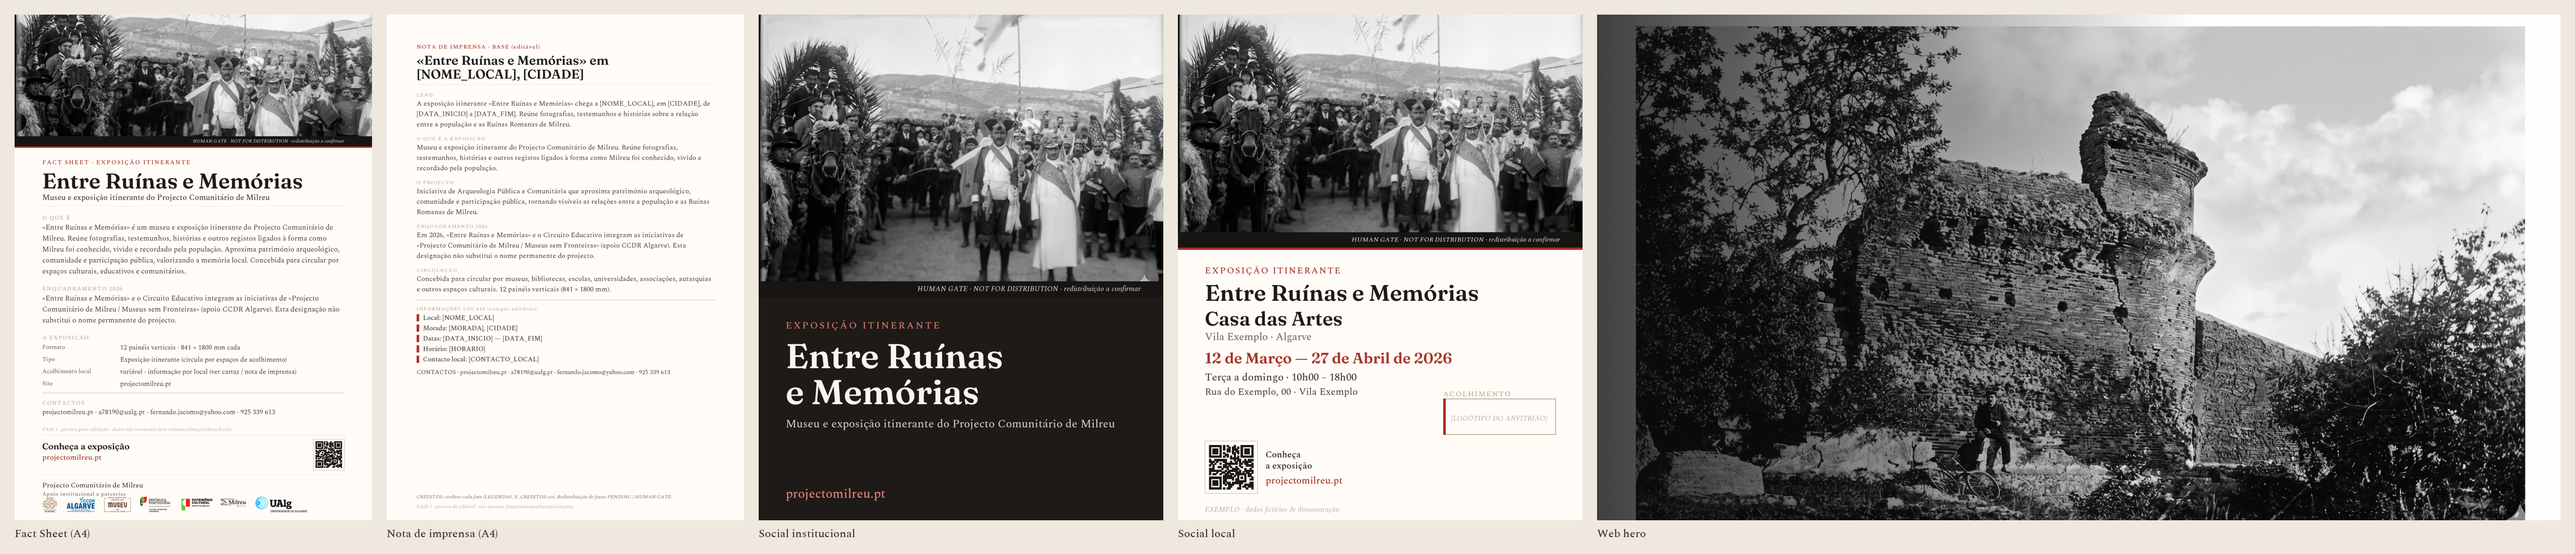
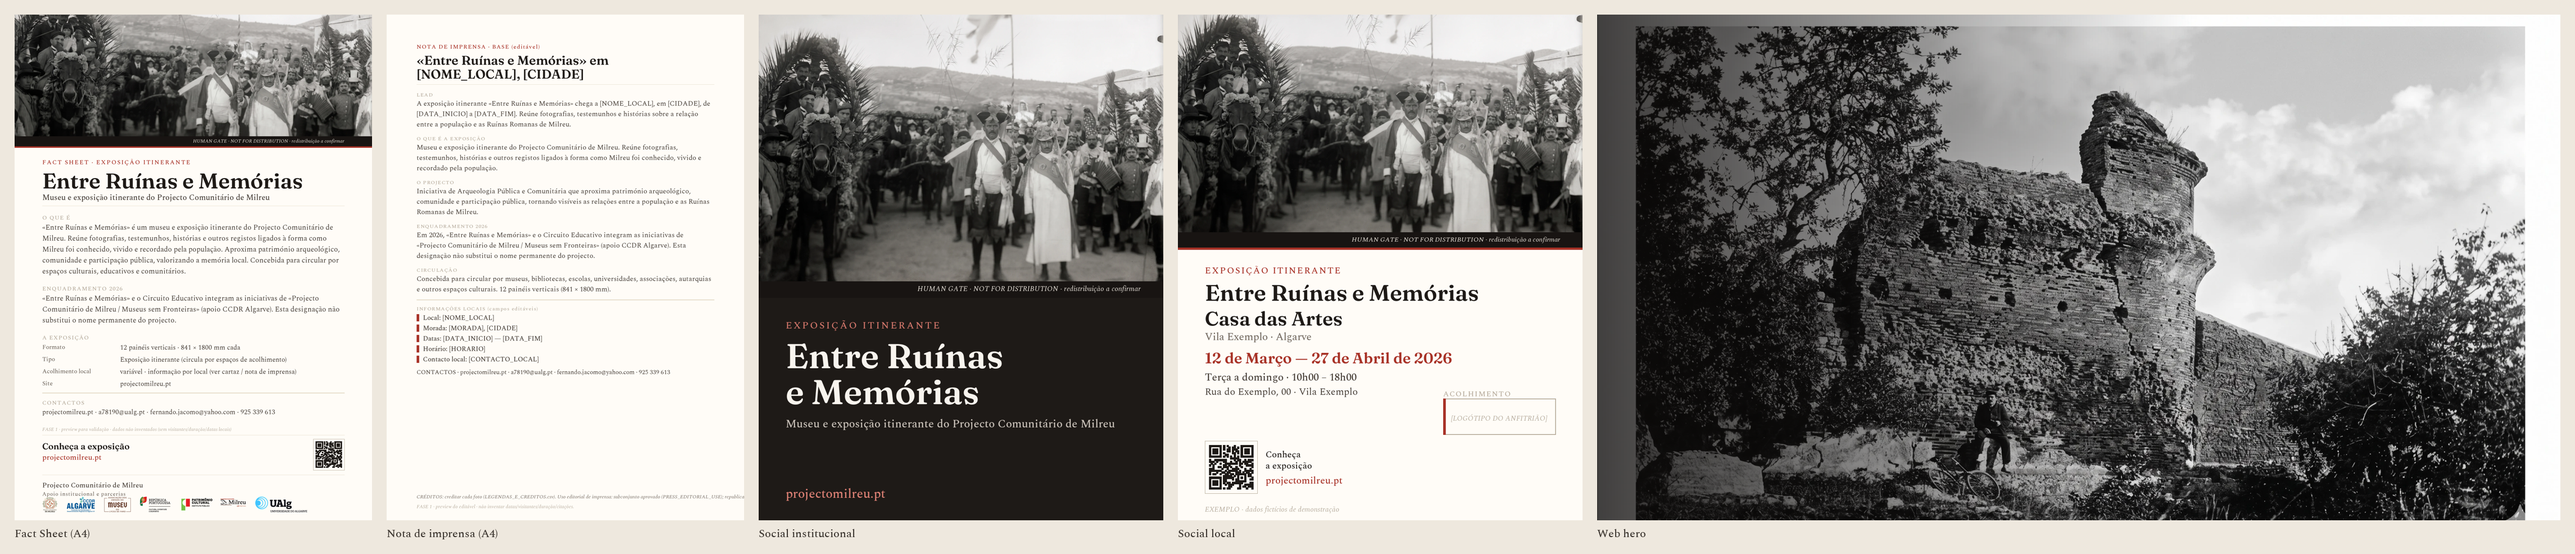
feat(item9): PRESS_EDITORIAL_USE package + previews regenerados (fecho operacional)
Estado: PRESS EDITORIAL PACKAGE READY / GENERIC & HOST REDISTRIBUTION GATED.

- Pacote `04_IMAGENS/PRESS_EDITORIAL_USE/` (renomeado de distribuiveis-imprensa): 5 assets
  press_editorial_use=YES (MM202601/602/603/608/613) + CREDITOS_IMPRENSA.csv + README com
  texto obrigatório (uso exclusivo editorial relacionado com o Projeto; não autoriza
  redistribuição genérica/republicação por terceiros) + condições por asset (restrição
  MM202602; termos Torre do Tombo MM202601).
- Previews regenerados (_previews/): corrigida a linha de créditos superseded na nota de
  imprensa ("Redistribuição: PENDING" → "subconjunto aprovado (PRESS_EDITORIAL_USE)").
  Fact sheet/social sem taxonomia superseded (barra de logos canónica + enquadramento MSF).
- Referências distribuiveis-imprensa → PRESS_EDITORIAL_USE (README/QuickStart/nota/manifest/
  inventory/QA/ESTADO_ITENS). manifest.phase atualizado.

Mantido: social/web, direitos dos assets, host_partner/generic, design do kit. ZIP público
genérico NÃO desbloqueado. Itens 10/11 não iniciados.

Changed region(s): [[0.2809, 0.0304, 0.6242, 0.5172], [0.0, 0.0, 0.156, 0.2434], [0.2185, 0.8824, 0.2809, 0.9128]]

diff --git a/docs/dissemination/kit-digital-press/v1/source/generators/kit_previews_build.py b/docs/dissemination/kit-digital-press/v1/source/generators/kit_previews_build.py
@@ -156,7 +156,7 @@ def press_preview():
     for t in ["Local: [NOME_LOCAL]","Morada: [MORADA], [CIDADE]","Datas: [DATA_INICIO] — [DATA_FIM]","Horário: [HORARIO]","Contacto local: [CONTACTO_LOCAL]"]:
         f.rect(mx,y+5,8,24,RED); f.text(mx+22,y,t,"sm",23,INK7,"l",wt=500); y+=36
     y+=10; f.text(mx,y,"CONTACTOS · projectomilreu.pt · a78190@ualg.pt · fernando.jacomo@yahoo.com · 925 339 613","s",21,INK7,"l")
-    f.text(mx,H-96,"CRÉDITOS: creditar cada foto (LEGENDAS_E_CREDITOS.csv). Redistribuição de fotos: PENDING / HUMAN GATE.","si",18,INK5,"l")
+    f.text(mx,H-96,"CRÉDITOS: creditar cada foto (LEGENDAS_E_CREDITOS.csv). Uso editorial de imprensa: subconjunto aprovado (PRESS_EDITORIAL_USE); republicação por terceiros/anfitrião por asset.","si",18,INK5,"l")
     f.text(mx,H-60,"FASE 1 · preview do editável · não inventar datas/visitantes/duração/citações.","si",17,INK3,"l")
     f.save("09_nota_imprensa_preview")
 

diff --git a/docs/project/ESTADO_ITENS_1-5_2026-10-01.md b/docs/project/ESTADO_ITENS_1-5_2026-10-01.md
@@ -19,7 +19,7 @@
 | 6 | Convite ao Inquérito | Peça de conversão (A6/A4/A3/digitais) | **FINAL ART** (PR #77/#82) — identificador 2026 no **bloco institucional top-anchored** (QR independente, quiet zone limpa); 5 formatos + CMYK; digitais 1080×1350 (bloco completo) e 1080×1920 (safe-area). **Gates:** CMYK gráfica + **teste físico do QR** |
 | 7 | Dossiê «convite ao convite» | Booklet A5 4 páginas (distribuição PDF) | **FINAL ART — UPDATED FOR AAMLF DISPLAY SYSTEM** (2026-10-06) — **P3** reescrita (sistema de expositores AAMLF: 7 estruturas metálicas/14 faces, diagramas 2+2+3 e ziguezague, montagem autónoma em desenvolvimento/esquema conceptual) + **P4** com bloco **PARCERIA E ACOMPANHAMENTO** (AAMLF/Meira Pinto/morada) + linha MSF; P1/P2 intactas; PDFs 300 DPI. **NIF fora do repo**; fotos só referência (→ Item 11). **Aguarda prepress** (CMYK/fontes) |
 | 8 | Cartaz local | Master/template editável A3+A4 por local | **TEMPLATE READY / STAND BY** (PR #80/**#97**) — master versionado com **slot 2026** + **template SVG A3/A4** (campos locais em vetor-texto vivo). **Não** se geram cartazes de evento sem local/data; prepress quando houver evento |
-| 9 | Kit Digital + Press Kit | Pacote para anfitriões/imprensa/parceiros | **FASE 1 · matriz reconciliada (2026-10-06)** — `press_editorial_use=YES`: **MM202601** (Festa da Pinha/Torre do Tombo, c/ termos da fonte), MM202603, MM202608, MM202613; **YES c/ restrição**: MM202602 (meninas); **NO**: MM202604/MM202627/MM202631. `host_partner`=PENDENTE e `generic`=NO (todas). **Subconjunto press editorial pronto** (`04_IMAGENS/distribuiveis-imprensa/`, 5 JPEG+créditos). Kit atualizado (README/QuickStart/nota-imprensa/contactos AAMLF/manifest); **taxonomia de entidades** sem duplicar AAMLF; **NIF fora do kit**. **ZIP público genérico + republicação por anfitrião continuam bloqueados** |
+| 9 | Kit Digital + Press Kit | Pacote para anfitriões/imprensa/parceiros | **PRESS EDITORIAL PACKAGE READY / GENERIC & HOST REDISTRIBUTION GATED** (2026-10-06) — `press_editorial_use=YES`: **MM202601** (Festa da Pinha/Torre do Tombo, c/ termos da fonte), MM202603, MM202608, MM202613; **YES c/ restrição**: MM202602; **NO**: MM202604/MM202627/MM202631. `host_partner`=PENDENTE e `generic`=NO (todas). Pacote **`04_IMAGENS/PRESS_EDITORIAL_USE/`** (5 JPEG + créditos + texto obrigatório). Previews regenerados (sem taxonomia superseded); kit + taxonomia de entidades (sem duplicar AAMLF) atualizados; **NIF fora do kit**. **ZIP público genérico + republicação por anfitrião bloqueados** |
 | 10 | Folha de Sala / Guia breve | A4 frente/verso (PT-PT), complemento aos 12 painéis | **DEFINED / NOT STARTED** — item canónico definido, **sem execução** no repositório. Escopo: introdução a «Entre Ruínas e Memórias», índice/percurso Q1–Q12, continuação da visita (site + QR), contexto breve do Projecto Comunitário de Milreu, enquadramento 2026, parceiros/créditos |
 | 11 | Manual do Expositor | Documento operacional da exposição itinerante | **DEFINED / NOT STARTED** — item canónico definido, **sem execução** no repositório. Escopo: transporte, acondicionamento, montagem, cuidados, procedimentos em caso de dano e operação da itinerância |
 | 12 | Poster de Congresso 2 | Adaptação editorial 2026 de poster académico aprovado | **FINAL (opção C) DELIVERED** (PR **#97**) — corpo aprovado **PRESERVADO** + rodapé 2026 em vetor + barra canónica; SVG editável. Divergência grafia corpo («Projeto») vs rodapé («Projecto**») **aceite** (preservação do design). **Gates:** prepress (CMYK/fontes) + resolução nativa do PSD |

diff --git a/docs/dissemination/kit-digital-press/v1/01_README/README_KIT.md b/docs/dissemination/kit-digital-press/v1/01_README/README_KIT.md
@@ -8,7 +8,7 @@ Pacote para **espaços anfitriões, imprensa e parceiros** divulgarem a exposiç
 - `01_README/` — este ficheiro + `QUICK_START.md`
 - `02_TEXTOS/` — descrições 50/100/250 palavras, bio curta, contactos
 - `03_PRESS/` — nota de imprensa-base (editável + PDF) + Fact Sheet 1 página
-- `04_IMAGENS/` — `distribuiveis-imprensa/` (subconjunto `press_editorial_use=YES`, com créditos) + `LEGENDAS_E_CREDITOS.csv` + `USO_E_DIREITOS.md`
+- `04_IMAGENS/` — `PRESS_EDITORIAL_USE/` (subconjunto `press_editorial_use=YES`, com créditos) + `LEGENDAS_E_CREDITOS.csv` + `USO_E_DIREITOS.md`
 - `05_LOGOS/` — **Identidade / Marca**: `PROJECTO/` (logótipo oficial + `DOWNLOADS.md` + `REGRAS_DE_USO_DA_MARCA.md` + `DESIGN_SYSTEM.md`), `PARCEIROS/` + `REGRAS_DE_USO.md`
 - `06_SOCIAL/` — feed 1080×1350, story 1080×1920, square 1080×1080, WhatsApp, editáveis
 - `07_WEB/` — hero/card/thumbnail horizontais + editáveis
@@ -27,7 +27,7 @@ Em 2026, duas iniciativas do **Projecto Comunitário de Milreu** — o museu iti
 ## Regras essenciais
 - Usar **apenas** os textos e imagens deste kit (copy e identidade canónicas).
 - **Creditar sempre** as fotografias (ver `LEGENDAS_E_CREDITOS.csv`).
-- **Direitos por imagem (reconciliado 2026-10-06):** existe agora um **subconjunto aprovado para uso editorial de imprensa** (`04_IMAGENS/distribuiveis-imprensa/`), **cada asset com crédito e condições próprias**. Isto **não** é autorização genérica de reutilização; **republicação por anfitrião** (`host_partner`) e **redistribuição a terceiros** (`generic`) **continuam dependentes do estado individual de cada asset** (ver `USO_E_DIREITOS.md`).
+- **Direitos por imagem (reconciliado 2026-10-06):** existe agora um **subconjunto aprovado para uso editorial de imprensa** (`04_IMAGENS/PRESS_EDITORIAL_USE/`), **cada asset com crédito e condições próprias**. Isto **não** é autorização genérica de reutilização; **republicação por anfitrião** (`host_partner`) e **redistribuição a terceiros** (`generic`) **continuam dependentes do estado individual de cada asset** (ver `USO_E_DIREITOS.md`).
 - **Não inferir direitos pela idade da fotografia.**
 - Não inventar datas, números de visitantes, duração, citações ou financiamentos.
 
@@ -41,4 +41,4 @@ Em 2026, duas iniciativas do **Projecto Comunitário de Milreu** — o museu iti
 - **`MUSEUS SEM FRONTEIRAS · INICIATIVAS 2026`:** identificador editorial/programático — **não** parceiro, **não** financiador, **não** logótipo. *(A AAMLF não é duplicada noutra categoria.)*
 
 ## Estado
-**FASE 1** — subconjunto de imagens de **uso editorial de imprensa** pronto (`distribuiveis-imprensa/`). O **ZIP público genérico** e o **pacote de republicação por anfitrião** **continuam bloqueados** (dependem do estado por asset). Logo SVG/PDF vetorial e CMYK do kit: `PENDING`.
+**PRESS EDITORIAL PACKAGE READY / GENERIC & HOST REDISTRIBUTION GATED** — pacote de **uso editorial de imprensa** pronto em `04_IMAGENS/PRESS_EDITORIAL_USE/` (5 imagens `press_editorial_use=YES` + créditos + condições por asset). O **ZIP público genérico** e o **pacote de republicação por anfitrião** **continuam bloqueados** (dependem do estado por asset). Logo SVG/PDF vetorial e CMYK do kit: `PENDING`.

diff --git a/docs/dissemination/kit-digital-press/v1/10_MANIFEST/QA_REPORT.md b/docs/dissemination/kit-digital-press/v1/10_MANIFEST/QA_REPORT.md
@@ -2,9 +2,9 @@
 
 # Item 9 — Kit Digital + Press Kit · QA (FASE 1)
 
-**Estado: FASE 1 · PRESS-EDITORIAL SUBSET READY / ZIP PÚBLICO + HOST REPUBLICATION GATED.** Estrutura + textos + previews validados. Subconjunto de imagens de **uso editorial de imprensa** pronto; ZIP público genérico e republicação por anfitrião **continuam bloqueados**.
+**Estado: PRESS EDITORIAL PACKAGE READY / GENERIC & HOST REDISTRIBUTION GATED.** Estrutura + textos + previews validados; previews regenerados sem taxonomia superseded. Pacote de **uso editorial de imprensa** pronto em `04_IMAGENS/PRESS_EDITORIAL_USE/`; ZIP público genérico e republicação por anfitrião **continuam bloqueados**.
 
-> **Atualização 2026-10-06 (reconciliação de direitos + AAMLF):** matriz de direitos reconciliada — **`press_editorial_use=YES`**: MM202601 (Festa da Pinha/Torre do Tombo, c/ termos da fonte), MM202602 (**restrição**: uso editorial do projeto, sem reutilização genérica), MM202603, MM202608, MM202613; **`NO`**: MM202604, MM202627, MM202631. **`host_partner_republication`=PENDENTE** e **`generic_third_party`=NO** em todas (o `press=YES` **não** os torna YES). Subconjunto populado em `04_IMAGENS/distribuiveis-imprensa/` (5 JPEG 2400px + créditos). Atualizados: README_KIT, QUICK_START, NOTA_DE_IMPRENSA, CONTACTOS (bloco **AAMLF** — Meira Pinto/email/morada; **NIF fora do kit**), manifest. **Taxonomia de entidades** sem duplicação da AAMLF. Social/web **não alterados** (peças do próprio Projecto; `project_official=YES`). **Não** se desbloqueou ZIP genérico.
+> **Atualização 2026-10-06 (reconciliação de direitos + AAMLF):** matriz de direitos reconciliada — **`press_editorial_use=YES`**: MM202601 (Festa da Pinha/Torre do Tombo, c/ termos da fonte), MM202602 (**restrição**: uso editorial do projeto, sem reutilização genérica), MM202603, MM202608, MM202613; **`NO`**: MM202604, MM202627, MM202631. **`host_partner_republication`=PENDENTE** e **`generic_third_party`=NO** em todas (o `press=YES` **não** os torna YES). Subconjunto populado em `04_IMAGENS/PRESS_EDITORIAL_USE/` (5 JPEG 2400px + créditos). Atualizados: README_KIT, QUICK_START, NOTA_DE_IMPRENSA, CONTACTOS (bloco **AAMLF** — Meira Pinto/email/morada; **NIF fora do kit**), manifest. **Taxonomia de entidades** sem duplicação da AAMLF. Social/web **não alterados** (peças do próprio Projecto; `project_official=YES`). **Não** se desbloqueou ZIP genérico.
 
 > **Atualização 2026-10-03 (enquadramento 2026, GOV-MSF-2026):** integrado o enquadramento «Museus sem Fronteiras · Iniciativas 2026» nos outputs afectados — `README_KIT.md`, `NOTA_DE_IMPRENSA_BASE.md`, novo `02_TEXTOS/ENQUADRAMENTO_2026.txt`, previews **Fact Sheet** e **nota de imprensa** (bloco «ENQUADRAMENTO 2026»), `QUICK_START.md`, `manifest.json` e `inventory.csv`. Social/web inalterados (sem relação com o enquadramento). **RIGHTS GATE das fotografias mantido integralmente** — nenhuma imagem ganha novos direitos por esta alteração. Integração pública concluída no Item 2 (`#/imprensa` + `#/identidade`), resolvendo `PUBLIC_DS_PAGE_PENDING_ITEM2`.
 **PROJECT GATE: PASS** (pacote ITEM09; identidade Milreu; sem marcadores estrangeiros; sem checksums no pacote — registado).

diff --git a/docs/dissemination/kit-digital-press/v1/04_IMAGENS/PRESS_EDITORIAL_USE/README.md b/docs/dissemination/kit-digital-press/v1/04_IMAGENS/PRESS_EDITORIAL_USE/README.md
@@ -1,10 +1,12 @@
-# Imagens distribuíveis para imprensa — Kit Digital + Press
+# PRESS_EDITORIAL_USE — Imagens de uso editorial de imprensa
 
 > © 2026 Fernando Rodrigues de Jácomo. Produzido no âmbito do Projecto Comunitário de Milreu. Consultar `RIGHTS.md`.
 > Decisão de direitos: 2026-10-05, **reconciliada 2026-10-06** (ver `../USO_E_DIREITOS.md` e `docs/dissemination/RIGHTS_DECISIONS_2026-10-05.md`).
 
-## O que é esta pasta
-As **5 imagens com `press_editorial_use = YES`** da matriz do kit, em **JPEG de qualidade de imprensa** (2400 px no lado maior). **Derivados** das originais do acervo (autorizadas); não são os ficheiros crus. **Pacote de USO EDITORIAL DE IMPRENSA** — não é um ZIP genérico «livre».
+> **Estes materiais são disponibilizados exclusivamente para utilização editorial relacionada com o Projecto Comunitário de Milreu, nas condições indicadas para cada activo. A disponibilização não constitui autorização para redistribuição genérica, republicação por terceiros ou outros usos fora dessas condições.**
+
+## O que é este pacote
+As **5 imagens com `press_editorial_use = YES`** da matriz do kit (MM202601, MM202602, MM202603, MM202608, MM202613), em **JPEG de qualidade de imprensa** (2400 px no lado maior). **Derivados** das originais do acervo (autorizadas); não são os ficheiros crus. **Pacote de USO EDITORIAL DE IMPRENSA** — não é um ZIP genérico «livre».
 
 ## Condições de uso (obrigatórias)
 - **Uso editorial por imprensa**, **sempre com a linha de crédito** indicada abaixo.
@@ -29,6 +31,7 @@ Ver `CREDITOS_IMPRENSA.csv` para a versão estruturada.
 
 ## Gerar o ZIP para envio (quando necessário)
 ```bash
-cd docs/dissemination/kit-digital-press/v1/04_IMAGENS/distribuiveis-imprensa
-zip -r ../../MILREU_imprensa_imagens.zip . -x ".*"
+cd docs/dissemination/kit-digital-press/v1/04_IMAGENS/PRESS_EDITORIAL_USE
+zip -r ../../PRESS_EDITORIAL_USE.zip . -x ".*"
 ```
+**Este pacote NÃO é um ZIP público genérico** — contém apenas assets de uso editorial de imprensa, com as condições por asset. **Não** desbloqueia redistribuição genérica nem republicação por anfitrião.

diff --git a/docs/dissemination/kit-digital-press/v1/01_README/QUICK_START.md b/docs/dissemination/kit-digital-press/v1/01_README/QUICK_START.md
@@ -4,7 +4,7 @@
 
 1. **Descrever a exposição** — usar `02_TEXTOS/DESCRICAO_50/100/250_PALAVRAS.txt` conforme o espaço.
 0. **Enquadramento 2026** — quando for útil identificar o ciclo financiado, usar `02_TEXTOS/ENQUADRAMENTO_2026.txt`: «Museus sem Fronteiras · Iniciativas 2026» (museu itinerante «Entre Ruínas e Memórias» + Circuito Educativo). É designação **administrativa/editorial**, **não** substitui o nome permanente «Projecto Comunitário de Milreu» nem é logótipo/parceiro.
-2. **Imagens** — para **uso editorial de imprensa**, usar as de `04_IMAGENS/distribuiveis-imprensa/` (subconjunto `press_editorial_use=YES`), **sempre com a linha de crédito** indicada e respeitando as condições de cada asset (ver `LEGENDAS_E_CREDITOS.csv` / `USO_E_DIREITOS.md`). **Não** reutilização genérica; **republicação por anfitrião e redistribuição a terceiros dependem do estado de cada asset.**
+2. **Imagens** — para **uso editorial de imprensa**, usar as de `04_IMAGENS/PRESS_EDITORIAL_USE/` (subconjunto `press_editorial_use=YES`), **sempre com a linha de crédito** indicada e respeitando as condições de cada asset (ver `LEGENDAS_E_CREDITOS.csv` / `USO_E_DIREITOS.md`). **Não** reutilização genérica; **republicação por anfitrião e redistribuição a terceiros dependem do estado de cada asset.**
 3. **Imprensa** — adaptar `03_PRESS/NOTA_DE_IMPRENSA_BASE.md` preenchendo os campos `[ ]` locais; anexar o `FACT_SHEET_1P`.
 4. **Redes sociais** — usar as peças de `06_SOCIAL/` (institucional ou local).
 5. **Site/partilha** — usar `07_WEB/` e o QR de `09_QR/`.

diff --git a/docs/dissemination/kit-digital-press/v1/03_PRESS/NOTA_DE_IMPRENSA_BASE.md b/docs/dissemination/kit-digital-press/v1/03_PRESS/NOTA_DE_IMPRENSA_BASE.md
@@ -42,7 +42,7 @@ AAMLF — Associação dos Amigos do Museu do Lyceu de Faro · Meira Pinto · In
 projectomilreu.pt
 
 **CRÉDITOS DAS IMAGENS**
-Cada fotografia deve ser creditada conforme `04_IMAGENS/LEGENDAS_E_CREDITOS.csv`. Existe um **subconjunto aprovado para uso editorial de imprensa** em `04_IMAGENS/distribuiveis-imprensa/` — **cada imagem com crédito e condições próprias**. Isto **não** é autorização genérica de reutilização; **redistribuição a terceiros** e **republicação por anfitrião** continuam **dependentes do estado individual de cada asset** (ver `04_IMAGENS/USO_E_DIREITOS.md`). **Não remover marcas de água nem inferir créditos.**
+Cada fotografia deve ser creditada conforme `04_IMAGENS/LEGENDAS_E_CREDITOS.csv`. Existe um **subconjunto aprovado para uso editorial de imprensa** em `04_IMAGENS/PRESS_EDITORIAL_USE/` — **cada imagem com crédito e condições próprias**. Isto **não** é autorização genérica de reutilização; **redistribuição a terceiros** e **republicação por anfitrião** continuam **dependentes do estado individual de cada asset** (ver `04_IMAGENS/USO_E_DIREITOS.md`). **Não remover marcas de água nem inferir créditos.**
 
 **ENTIDADES (apoio institucional e parcerias)**
 - **Projecto Comunitário de Milreu** — identidade principal.
